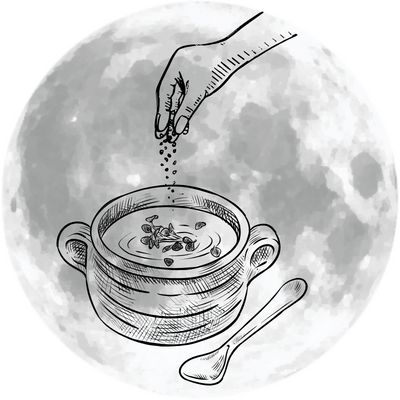
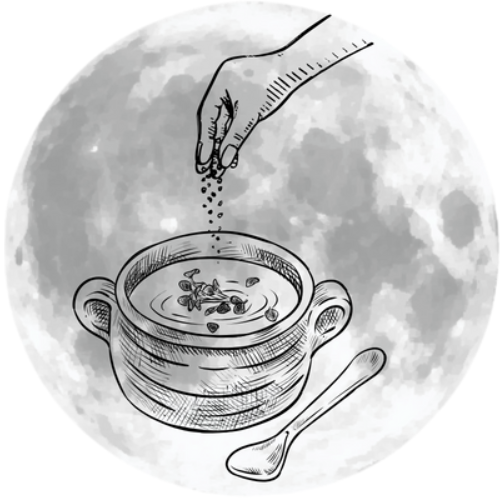
Fixed arrows

diff --git a/src/components/Blog.jsx b/src/components/Blog.jsx
@@ -1,71 +1,121 @@
-//Importing React and States
-import React, { useState, useContext,useEffect } from "react";
+// Importing React and States
+import React, { useState, useContext, useEffect } from "react";
 import styled from "styled-components";
 import { FaArrowLeft, FaArrowRightLong } from "react-icons/fa6";
 import blogsData from "./blogs.json";
 import CardThemeContext from "./CardThemeContext";
-// using an API to create blog posts to emulate getting data from the back end.
 
 function Blog() {
+  const { activeCard } = useContext(CardThemeContext);
 
-  const {activeCard } = useContext(CardThemeContext);
-console.log(activeCard)
+  const [blogs, setBlogs] = useState(blogsData[activeCard] || []);
+  const [blogIndex, setBlogIndex] = useState(0);
 
-  const [blogs, setBlogs] = useState(blogsData[activeCard]);
-  const [blogindex, setBlogIndex] = useState(0);
-
-  useEffect(()=>{
-    setBlogs(blogsData[activeCard]);
+  useEffect(() => {
+    const next = blogsData[activeCard] || [];
+    setBlogs(next);
     setBlogIndex(0);
+  }, [activeCard]);
 
-  },[activeCard])
-
-
-
+  const hasBlogs = blogs.length > 0;
 
   function handleRightButtonClick() {
-    setBlogIndex((prevState) => (prevState + 1) % blogs.length);
+    if (!hasBlogs) return;
+    setBlogIndex((i) => (i + 1) % blogs.length);
   }
+
   function handleLeftButtonClick() {
-    setBlogIndex((prevIndex) => (prevIndex - 1 + blogs.length) % blogs.length);
+    if (!hasBlogs) return;
+    setBlogIndex((i) => (i - 1 + blogs.length) % blogs.length);
   }
 
   return (
     <BlogContainer>
-      <LeftArrowContainer onClick={handleLeftButtonClick}>
-        <FaArrowLeft />
-      </LeftArrowContainer>
-      <BlogMain>
-        <BlogTop>
-          <StyledImg src={blogs[blogindex].src} />
-        </BlogTop>
-        <Bottom>
-          <h1>{blogs[blogindex].title}</h1>
-          <p>{blogs[blogindex].bio}</p>
-        </Bottom>
+      {hasBlogs && (
+        <>
+          <LeftArrow
+            onClick={handleLeftButtonClick}
+            aria-label="Previous post"
+            title="Previous"
+          >
+            <FaArrowLeft size={20} />
+          </LeftArrow>
+
+          <RightArrow
+            onClick={handleRightButtonClick}
+            aria-label="Next post"
+            title="Next"
+          >
+            <FaArrowRightLong size={20} />
+          </RightArrow>
+        </>
+      )}
+
+      <BlogMain role="region" aria-live="polite">
+        {hasBlogs ? (
+          <>
+            <BlogTop>
+              <StyledImg
+                src={blogs[blogIndex].src}
+                alt={blogs[blogIndex].title || "Blog image"}
+              />
+            </BlogTop>
+            <Bottom>
+              <h1>{blogs[blogIndex].title}</h1>
+              <p>{blogs[blogIndex].bio}</p>
+            </Bottom>
+          </>
+        ) : (
+          <EmptyState>No posts available.</EmptyState>
+        )}
       </BlogMain>
-      <RightArrowContainer onClick={handleRightButtonClick}>
-        <FaArrowRightLong />
-      </RightArrowContainer>
     </BlogContainer>
   );
 }
 
 const BlogContainer = styled.div`
   display: flex;
+  justify-content: center;
   align-items: center;
+  position: relative; /* arrows position relative to this */
+  width: fit-content; /* shrink-wrap around BlogMain */
 `;
-const LeftArrowContainer = styled.button`
-all: unset;
+
+const ArrowButton = styled.button`
+  all: unset;
+  position: absolute;
+  top: 50%;
+  transform: translateY(-50%);
+  background: rgba(255, 255, 255, 0.8);
+  border-radius: 50%;
+  padding: 12px;
+  cursor: pointer;
+  z-index: 2;
+  touch-action: manipulation;
+
+  &:hover {
+    background: rgba(0, 0, 0, 0.08);
+  }
+  &:active {
+    transform: translateY(-50%) scale(0.98);
+  }
+
+  @media (max-width: 768px) {
+    padding: 20px; /* larger tap target on mobile */
+  }
 `;
-const RightArrowContainer = styled.button`
-all: unset`;
+
+const LeftArrow = styled(ArrowButton)`
+  left: -40px;
+`;
+const RightArrow = styled(ArrowButton)`
+  right: -40px;
+`;
 
 const BlogMain = styled.div`
   border-radius: 16px;
   height: 456px;
   width: 386px;
-  /* border: black 3px solid; */
   @media (max-width: 768px) {
     height: 389px;
     width: 329px;
@@ -75,26 +125,36 @@ const BlogMain = styled.div`
 const BlogTop = styled.div`
   border-radius: 16px;
   height: 50%;
-  border: #000000 3px solid;
+  border: #000 3px solid;
   display: flex;
   justify-content: center;
   align-items: center;
-  background:#f5f1f1;
+  background: #f5f1f1;
 `;
 
 const StyledImg = styled.img`
   height: 95%;
+  width: auto;
+  max-width: 100%;
+  object-fit: contain;
 `;
 
 const Bottom = styled.div`
   border-radius: 16px;
   display: flex;
   flex-direction: column;
-  justify-content: flex-start;
-  gap:10px;
-  padding:15px;
+  gap: 10px;
+  padding: 15px;
   align-items: center;
   height: 50%;
-  border: black 3px solid;
+  border: #000 3px solid;
 `;
+
+const EmptyState = styled.div`
+  display: grid;
+  place-items: center;
+  height: 100%;
+  font-style: italic;
+`;
+
 export default Blog;
